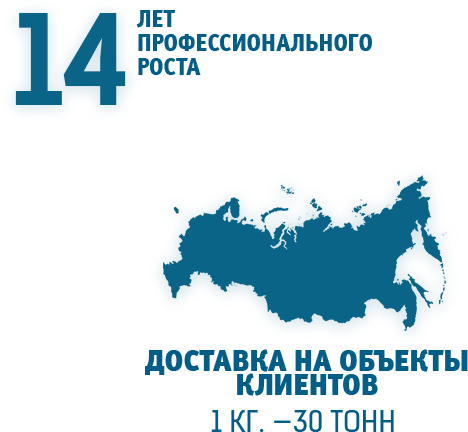
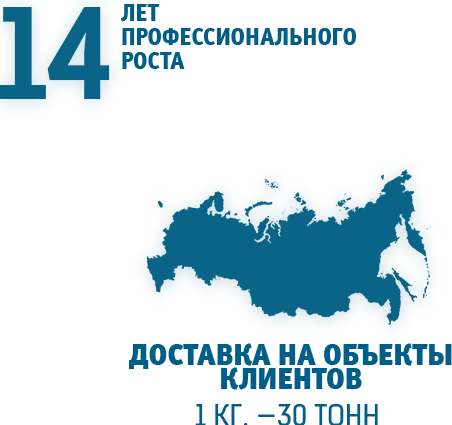
change-css-in-content

diff --git a/css/screen.css b/css/screen.css
@@ -303,12 +303,25 @@ body {
 .content__inner {
     display: flex;
     justify-content: space-between;
+    padding-top: 56px;
+    padding-bottom: 77px;
+    max-width: 1287px;
+}
+
+.content__img {
+    margin-right: 83px;
+    max-height: 422px;
+}
+
+.content-info {
+    max-width: 711px;
 }
 
 .content__title {
     font-family: KelsonSansBold;
     font-size: 33px;
     color: #0b232e;
+    padding-bottom: 23px;
 }
 
 .content__button {
@@ -322,6 +335,9 @@ body {
 
 .content__p {
     font-size: 16px;
+    font-weight: normal;
+    text-align: justify;
+    margin-top: 36px;
 }
 
 .footer {
